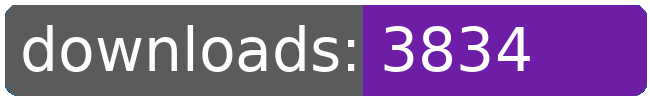
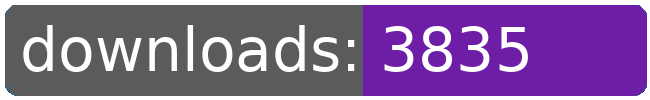
dl log written

Changed region(s): [[0.7692, 0.27, 0.8308, 0.72]]

diff --git a/README.md b/README.md
@@ -21,8 +21,8 @@
 		<td>3740</td>
 		<td>3758</td>
 		<td>3773</td>
-		<td>3785</td>
-		<td>+ 12</td>
+		<td>3786</td>
+		<td>+ 13</td>
 	</tr>
 	<tr>
 		<td>aberrant.kahet.outfitter</td>
@@ -54,8 +54,8 @@
 		<td>3792</td>
 		<td>3810</td>
 		<td>3824</td>
-		<td>3834</td>
-		<td>+ 10</td>
+		<td>3835</td>
+		<td>+ 11</td>
 	</tr>
 	<tr>
 		<td>capture.archons</td>
@@ -274,8 +274,8 @@
 		<td></td>
 		<td></td>
 		<td></td>
-		<td>55940</td>
-		<td>201</td>
+		<td>55942</td>
+		<td>203</td>
 	</tr>
 </table>
 </sub></sup>
@@ -311,8 +311,8 @@
 		<td>3792</td>
 		<td>3810</td>
 		<td>3824</td>
-		<td>3834</td>
-		<td>+ 10</td>
+		<td>3835</td>
+		<td>+ 11</td>
 	</tr>
 	<tr>
 		<td>1requiredcrew</td>
@@ -322,8 +322,8 @@
 		<td>3740</td>
 		<td>3758</td>
 		<td>3773</td>
-		<td>3785</td>
-		<td>+ 12</td>
+		<td>3786</td>
+		<td>+ 13</td>
 	</tr>
 	<tr>
 		<td>capture.archons</td>
@@ -553,8 +553,8 @@
 		<td></td>
 		<td></td>
 		<td></td>
-		<td>55940</td>
-		<td>201</td>
+		<td>55942</td>
+		<td>203</td>
 	</tr>
 </table>
 </sub></sup>
